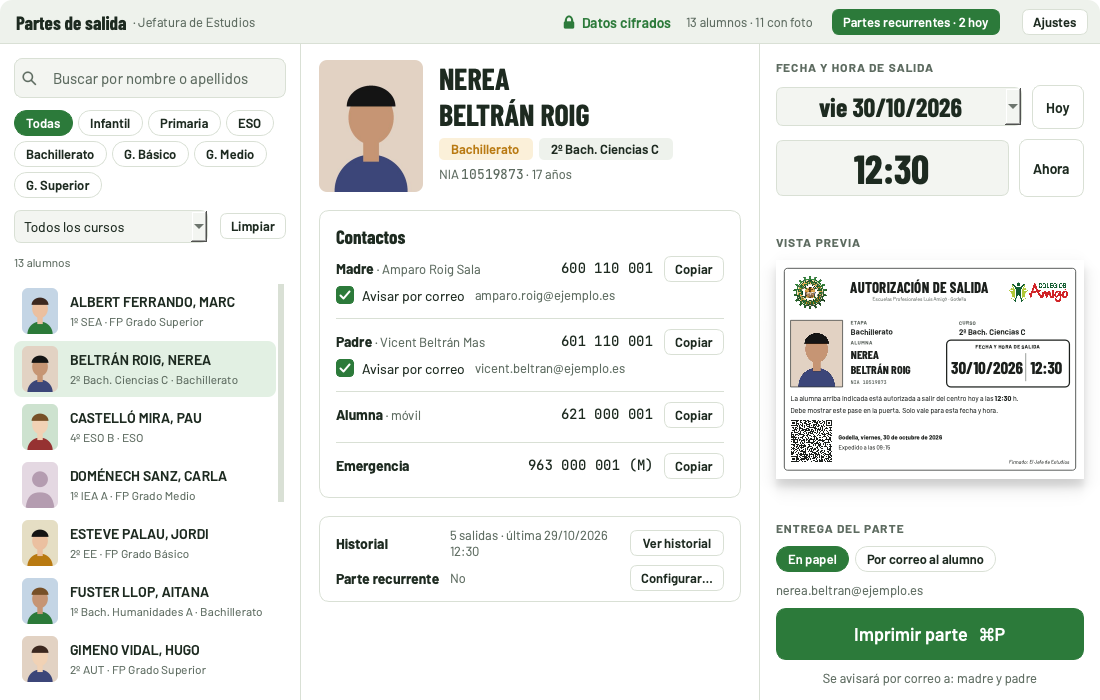
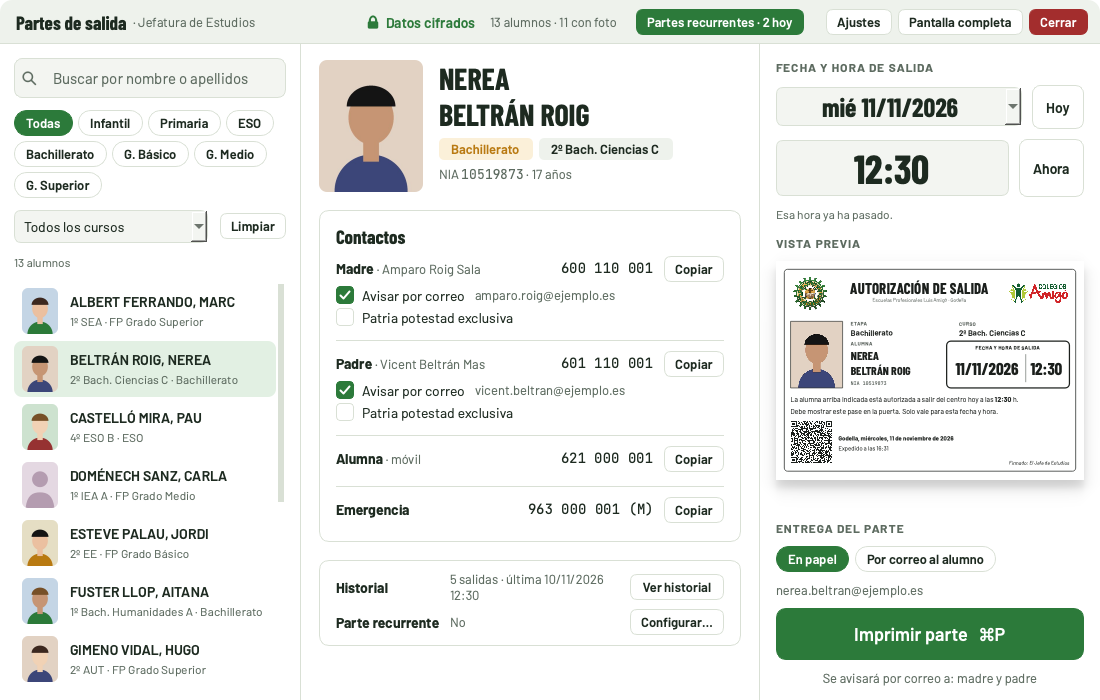
feat(ui): botón «Ventana» para salir de la pantalla completa y cambiar el tamaño (v2.2.0)

diff --git a/src/partes_salida/ui/ventana.py b/src/partes_salida/ui/ventana.py
@@ -8,7 +8,7 @@ from dataclasses import dataclass, field
 from datetime import date, datetime, timedelta
 from datetime import time as dtime
 
-from PyQt6.QtCore import QAbstractListModel, QDate, QLocale, QRectF, QSize, Qt, QTime, QTimer
+from PyQt6.QtCore import QAbstractListModel, QDate, QEvent, QLocale, QRectF, QSize, Qt, QTime, QTimer
 from PyQt6.QtGui import (
     QColor,
     QFont,
@@ -518,6 +518,7 @@ class VentanaPrincipal(QMainWindow):
         QShortcut(QKeySequence(QKeySequence.StandardKey.Find), self, activated=self.enfocar_buscador)
         QShortcut(QKeySequence("Ctrl+,"), self, activated=lambda: self.abrir_ajustes())
         QShortcut(QKeySequence(QKeySequence.StandardKey.Close), self, activated=self.close)
+        QShortcut(QKeySequence(QKeySequence.StandardKey.FullScreen), self, activated=self.alternar_pantalla_completa)
         self._reloj = QTimer(self, interval=30_000, timeout=self.vista.actualizar)
         self._reloj.start()
         self.envios = Envios(self.ctx, self)
@@ -573,6 +574,11 @@ class VentanaPrincipal(QMainWindow):
         ajustes.setToolTip("Ajustes (Ctrl+,)")
         ajustes.clicked.connect(lambda: self.abrir_ajustes())
         fila.addWidget(ajustes)
+        # Sale de la pantalla completa a una ventana normal, que se puede mover y cambiar de tamaño, y vuelve.
+        self.boton_ventana = boton("", pequeno=True)
+        self.boton_ventana.clicked.connect(self.alternar_pantalla_completa)
+        self._rotular_boton_ventana()
+        fila.addWidget(self.boton_ventana)
         # En pantalla completa no hay barra de título: «Cerrar» hace lo que su X (la app sigue en la barra).
         self.boton_cerrar = boton("Cerrar", pequeno=True, salir=True)
         self.boton_cerrar.setToolTip("Oculta la ventana: la app sigue abierta en la barra de menús o en la bandeja")
@@ -1172,10 +1178,43 @@ class VentanaPrincipal(QMainWindow):
         self.col_buscar.setFixedWidth(izq)
         self.col_imprimir.setFixedWidth(der)
 
+    #: Se abre a pantalla completa; si se pasa a ventana, vuelve como ventana hasta que se cierre la app.
+    _pantalla_completa = True
+
+    def alternar_pantalla_completa(self) -> None:
+        """«Ventana» deja una ventana normal, con su barra de título, que se mueve y cambia de tamaño;
+        «Pantalla completa» vuelve. La elección vale para las siguientes veces que se muestre."""
+        self._pantalla_completa = not self.isFullScreen()
+        if self._pantalla_completa:
+            self.showFullScreen()
+        else:
+            self.showNormal()
+
+    def _rotular_boton_ventana(self) -> None:
+        atajo = QKeySequence(QKeySequence.StandardKey.FullScreen).toString(QKeySequence.SequenceFormat.NativeText)
+        if self.isFullScreen():
+            self.boton_ventana.setText("Ventana")
+            self.boton_ventana.setToolTip(f"Salir de la pantalla completa para mover o cambiar el tamaño ({atajo})")
+        else:
+            self.boton_ventana.setText("Pantalla completa")
+            self.boton_ventana.setToolTip(f"Volver a la pantalla completa ({atajo})")
+
+    def changeEvent(self, evento):  # noqa: N802
+        super().changeEvent(evento)
+        if evento.type() == QEvent.Type.WindowStateChange:
+            self._rotular_boton_ventana()
+            # También cuenta salir con el botón verde de macOS; al ocultarse no se toca la elección.
+            if self.isVisible() and not self.isMinimized():
+                self._pantalla_completa = self.isFullScreen()
+
     def mostrar_al_frente(self) -> None:
-        """Pantalla completa, como Programaciones (la del botón verde en macOS; sin barra de tareas en Windows).
-        Se oculta con «Cerrar» (o ⌘W / Ctrl+W) y vuelve desde el icono de la barra."""
-        self.showFullScreen()
+        """Pantalla completa, como Programaciones (la del botón verde en macOS; sin barra de tareas en Windows),
+        salvo que se haya pasado a ventana con «Ventana». Se oculta con «Cerrar» (o ⌘W / Ctrl+W) y vuelve desde
+        el icono de la barra."""
+        if self._pantalla_completa:
+            self.showFullScreen()
+        else:
+            self.showNormal()
         self.setWindowState(self.windowState() & ~Qt.WindowState.WindowMinimized)
         self.raise_()
         self.activateWindow()

diff --git a/tests/test_interfaz.py b/tests/test_interfaz.py
@@ -366,3 +366,23 @@ def test_se_abre_a_pantalla_completa_y_cerrar_la_oculta(qtbot, ventana):
     assert ventana.boton_cerrar.property("salir") is True
     qtbot.mouseClick(ventana.boton_cerrar, Qt.MouseButton.LeftButton)
     assert not ventana.isVisible(), "se oculta: la app sigue en la barra"
+
+
+def test_ventana_sale_de_pantalla_completa_y_se_acuerda(qtbot, ventana):
+    ventana.hide()
+    ventana.mostrar_al_frente()
+    assert ventana.isFullScreen()
+    assert ventana.boton_ventana.text() == "Ventana"
+    qtbot.mouseClick(ventana.boton_ventana, Qt.MouseButton.LeftButton)
+    qtbot.waitUntil(lambda: not ventana.isFullScreen())
+    assert ventana.boton_ventana.text() == "Pantalla completa"
+    ventana.resize(1200, 760)
+    assert ventana.size().width() == 1200, "fuera de pantalla completa se puede cambiar de tamaño"
+    qtbot.mouseClick(ventana.boton_cerrar, Qt.MouseButton.LeftButton)
+    ventana.mostrar_al_frente()
+    assert not ventana.isFullScreen(), "vuelve como ventana mientras la app siga abierta"
+    qtbot.mouseClick(ventana.boton_ventana, Qt.MouseButton.LeftButton)
+    qtbot.waitUntil(ventana.isFullScreen)
+    ventana.hide()
+    ventana.mostrar_al_frente()
+    assert ventana.isFullScreen()

diff --git a/src/partes_salida/__init__.py b/src/partes_salida/__init__.py
@@ -1,4 +1,4 @@
 """Partes de salida: imprime el pase de salida del alumnado en DIN-A6."""
 
-__version__ = "2.1.0"
+__version__ = "2.2.0"
 NOMBRE_APP = "Partes de salida"

diff --git a/docs/ESPECIFICACION.md b/docs/ESPECIFICACION.md
@@ -110,7 +110,7 @@ En la ficha, «Historial» resume cuántas salidas tiene y la última; «Ver his
 ## 5. Requisitos no funcionales
 
 - **Siempre a mano**: cerrar la ventana la oculta; la app sigue en la barra de menús o la bandeja. Una sola instancia: abrirla otra vez trae la ventana al frente.
-- **Pantalla completa** al abrirse o volver desde la barra, como Programaciones; «Cerrar» (rojo, en la barra superior) o ⌘W / Ctrl+W la ocultan y la app sigue en la barra. Fuera de pantalla completa, mínimo 980 × 620. Modo claro y oscuro según el sistema (ADR-022).
+- **Pantalla completa** al abrirse o volver desde la barra, como Programaciones; «Cerrar» (rojo, en la barra superior) o ⌘W / Ctrl+W la ocultan y la app sigue en la barra. «Ventana» (⌃⌘F / F11) la deja en una ventana normal que se mueve y cambia de tamaño, y «Pantalla completa» vuelve; se recuerda mientras la app esté abierta. Fuera de pantalla completa, mínimo 980 × 620. Modo claro y oscuro según el sistema (ADR-022).
 - **Privacidad**: ver [SEGURIDAD_Y_DATOS.md](SEGURIDAD_Y_DATOS.md).
 - **Presentación**: al abrir, una tarjeta corporativa (escudo, título, versión, autoría) muestra el progreso real de la carga; dura al menos 1,4 s y se cierra con un fundido. No sale al arrancar oculta con la sesión.
 - **Actualización**: al arrancar (y cada 4 horas) consulta GitHub. El instalador descargado solo se abre si su suma sha256 coincide con la que publica GitHub; si no coincide o no se puede comprobar, se avisa y se ofrece la página de descargas. Si hay versión nueva: diálogo por encima de la app con las novedades del CHANGELOG y «Actualizar ahora» destacado; si se pospone, botón dorado «Actualizar a X.Y.Z» fijo en la barra superior. También en Ajustes → General → «Buscar actualizaciones».

diff --git a/docs/DECISIONES.md b/docs/DECISIONES.md
@@ -138,4 +138,5 @@ Formato: contexto → decisión → consecuencias. Una decisión no se reescribe
 
 - **Contexto**: CarlosFB pidió que la ventana se abra a pantalla completa y que las columnas laterales sean algo más grandes, como en Programaciones.
 - **Decisión**: `mostrar_al_frente` (arranque, icono de la barra, Dock, segunda instancia) usa `showFullScreen`. Sin barra de título, la barra superior lleva «Cerrar» en rojo a la derecha de «Ajustes»: hace lo que la X, oculta la ventana y la app sigue en la barra (no sale, a diferencia del «Salir» de Programaciones, porque Partes revisa el buzón y avisa de los recurrentes). Las columnas laterales siguen la regla de Programaciones: con lo que sobra tras dejar 1040 px a la ficha, crecen a partes iguales hasta 360 y 400 px; en pantallas pequeñas, 300 y 340.
+- **Corrección (2.2, CarlosFB, 2026-11-11):** en pantalla completa no se podía cambiar el tamaño. Entre «Ajustes» y «Cerrar», el botón «Ventana» (⌃⌘F en macOS, F11 en Windows) deja una ventana normal, que se mueve y cambia de tamaño; en ella, el mismo botón dice «Pantalla completa» y vuelve. La elección dura mientras la app esté abierta: al volver desde la barra se muestra como se dejó, y al arrancar, a pantalla completa. Salir con el botón verde de macOS cuenta igual. Prueba: `test_ventana_sale_de_pantalla_completa_y_se_acuerda`.
 - **Consecuencias**: en una pantalla de 1800 px, 360 · 1040 · 400. «Siempre encima» con pantalla completa tapa todo: tiene poco sentido usar las dos. Prueba: `test_laterales_mas_anchas_sin_quitar_sitio_a_la_ficha` y `test_se_abre_a_pantalla_completa_y_cerrar_la_oculta`.

diff --git a/DESIGN.md b/DESIGN.md
@@ -68,7 +68,7 @@ Las tres familias (OFL) van dentro de la app: `src/partes_salida/recursos/fuente
 
 ## Layout
 
-- Pantalla completa al mostrarse (como Programaciones; mínimo 980 × 620). Barra superior: título, nombre del equipo, «Datos cifrados» y recuento, botón Ajustes y «Cerrar» en rojo (`salir`), que oculta la ventana.
+- Pantalla completa al mostrarse (como Programaciones; mínimo 980 × 620). Barra superior: título, nombre del equipo, «Datos cifrados» y recuento, botón Ajustes, «Ventana» / «Pantalla completa» (⌃⌘F en macOS, F11 en Windows: sale a una ventana que cambia de tamaño y vuelve) y «Cerrar» en rojo (`salir`), que oculta la ventana.
 - Columnas laterales de 300 y 340 px; con pantalla de sobra crecen a partes iguales hasta 360 y 400 sin dejar la ficha por debajo de 1040.
 - Columna izquierda: buscador con lupa · botones de etapa (se parten en filas) · curso + Limpiar · recuento · lista (filas de 58 px con miniatura 36×46).
 - Centro: foto 104×132 · nombre en dos líneas · etiquetas etapa y curso · NIA y edad · caja «Contactos» (familiar, teléfono, Copiar y casilla de aviso, y, con dos familiares, debajo del aviso, la casilla «Patria potestad exclusiva»: el otro sale en gris y con su aviso bloqueado; móvil del alumno y teléfono de emergencia).

diff --git a/CHANGELOG.md b/CHANGELOG.md
@@ -2,6 +2,12 @@
 
 Formato [Keep a Changelog](https://keepachangelog.com/es-ES/1.1.0/) y [SemVer](https://semver.org/lang/es/). La entrada de cada versión es también la nota de su release en GitHub. Lo más reciente arriba.
 
+## [2.2.0] - 2026-11-11
+
+### Añadido
+
+- **Botón «Ventana»**, entre «Ajustes» y «Cerrar»: saca la app de la pantalla completa a una ventana normal, que se puede mover y cambiar de tamaño. En la ventana, el mismo botón dice «Pantalla completa» y vuelve. Atajo: ⌃⌘F en Mac, F11 en Windows. Mientras la app siga abierta, al volver desde la barra se muestra como se dejó; al arrancar, a pantalla completa.
+
 ## [2.1.0] - 2026-11-11
 
 ### Cambiado
